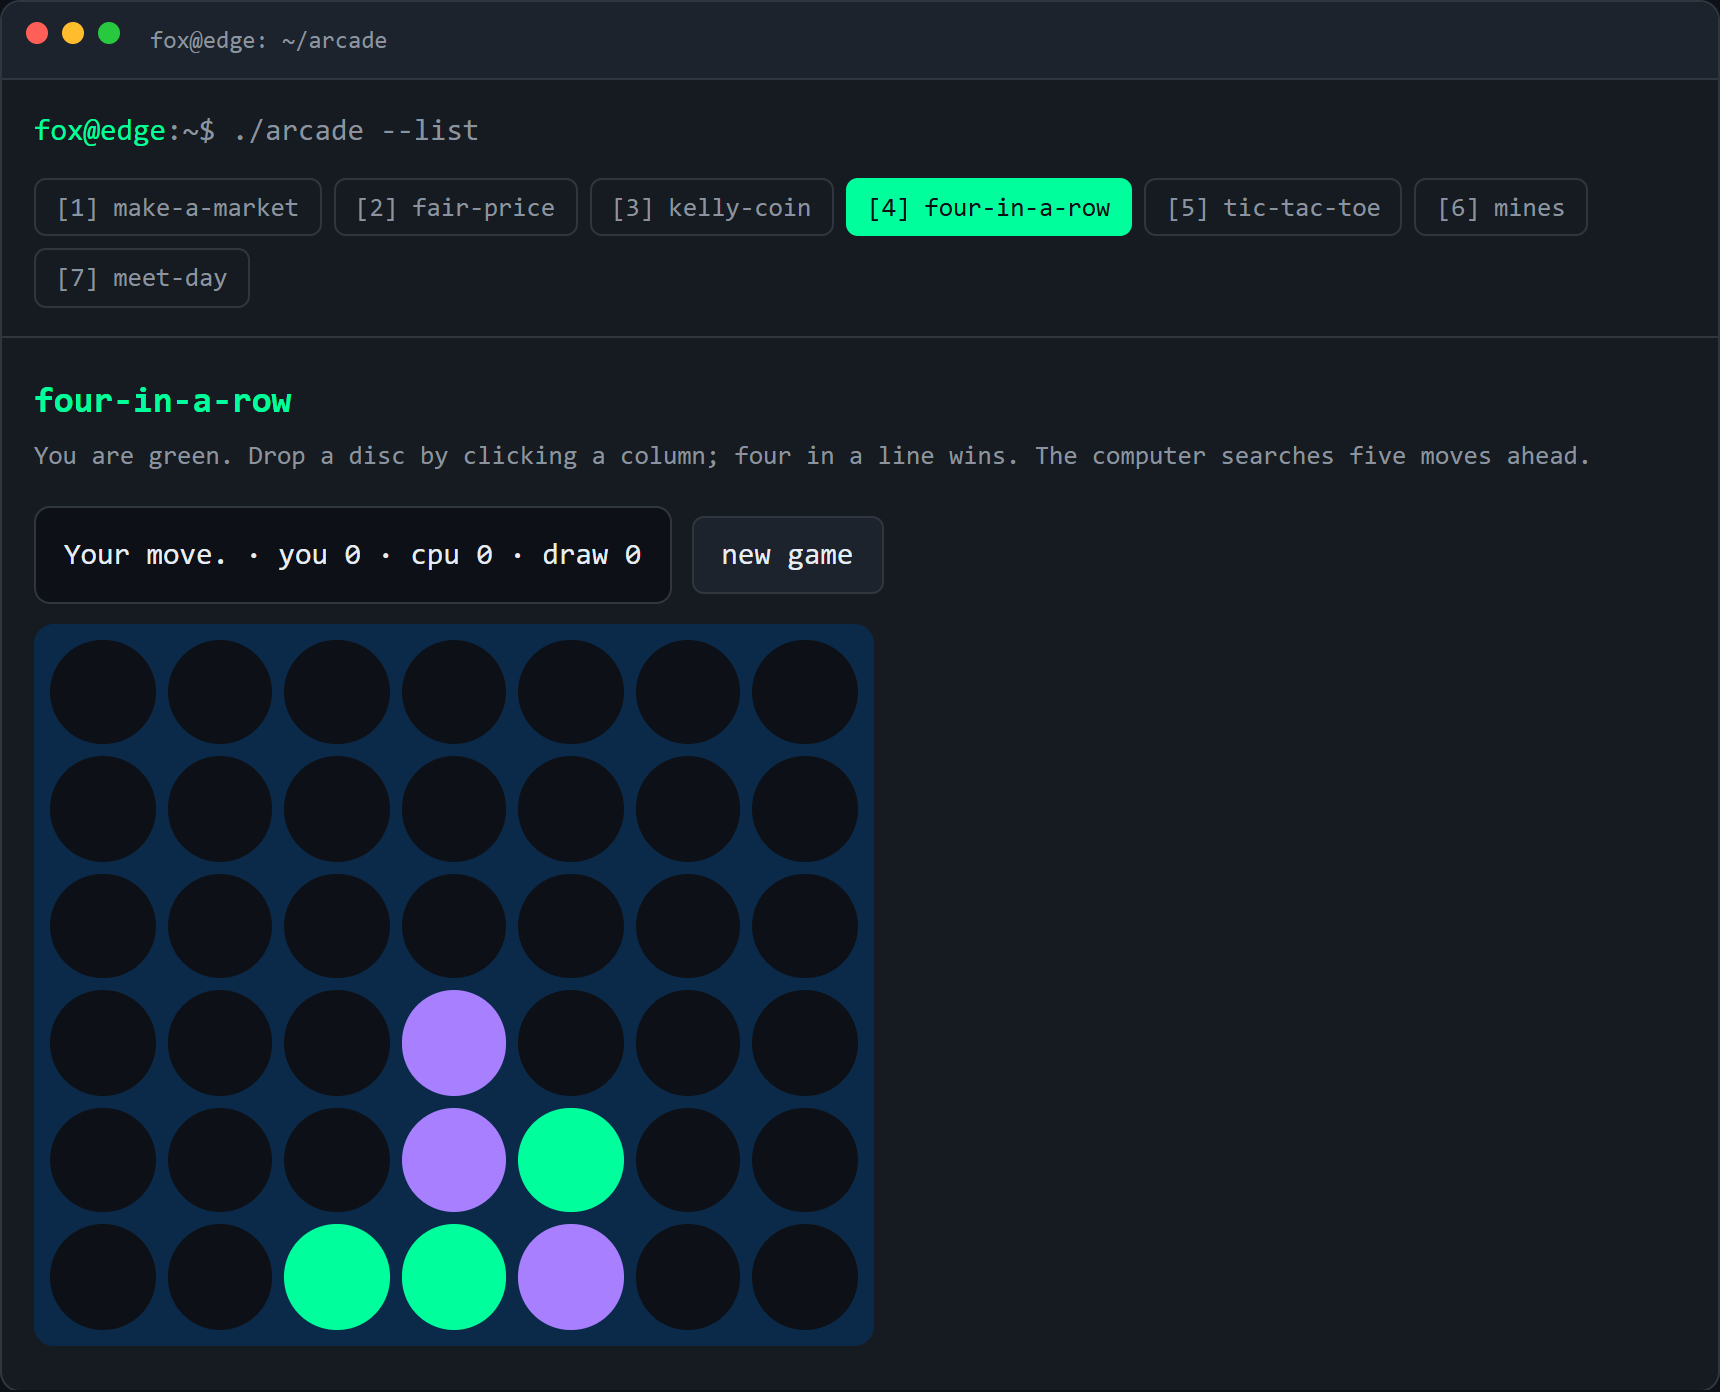
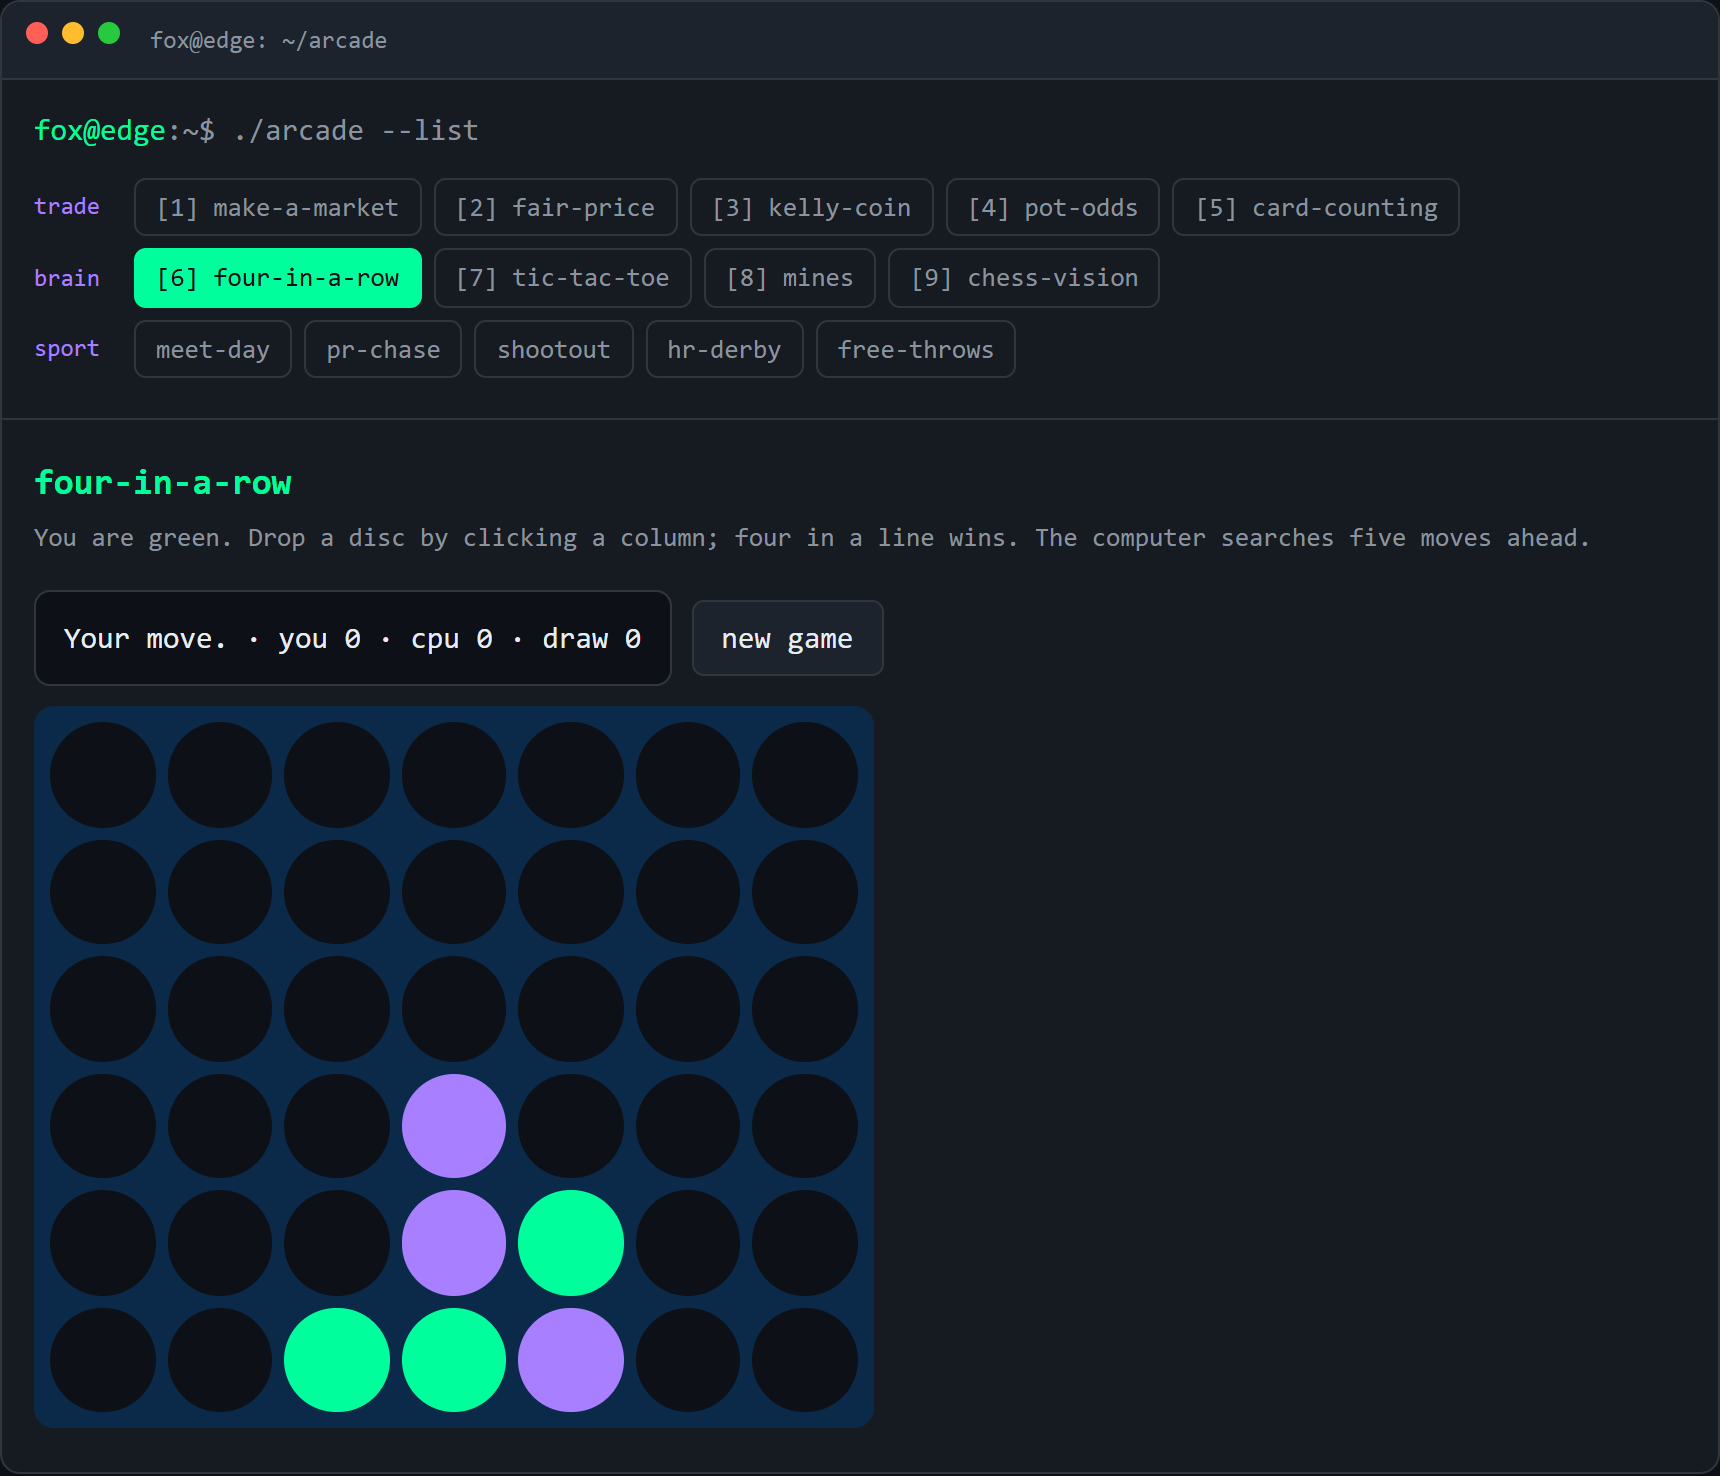
profile: arcade now fourteen games

diff --git a/README.md b/README.md
@@ -152,10 +152,10 @@ A system that grades itself with data it produced can fail in ways its own outpu
 
 ## `fox@edge:~$ ./arcade`
 
-<sub>Seven small games in one HTML file, no libraries: make a market, fair price, the Kelly coin, four in a row, unbeatable tic-tac-toe, mines, and a powerlifting meet day. Click to play.</sub>
+<sub>Fourteen small games in one HTML file, no libraries. Trading drills (make a market, fair price, the Kelly coin, poker pot odds, card counting), brain games (four in a row, unbeatable tic-tac-toe, mines, chess vision) and sports (powerlifting meet day, PR chase, shootout, home run derby, free throws). Click to play.</sub>
 
 <p align="center">
-  <a href="https://thatonesharpdude.github.io/arcade/"><img src="assets/arcade.png" width="640" alt="The arcade page: a terminal window listing seven games, with a four-in-a-row board in play"></a>
+  <a href="https://thatonesharpdude.github.io/arcade/"><img src="assets/arcade.png" width="640" alt="The arcade page: a terminal window listing fourteen games in trade, brain and sport groups, with a four-in-a-row board in play"></a>
 </p>
 
 <br>
